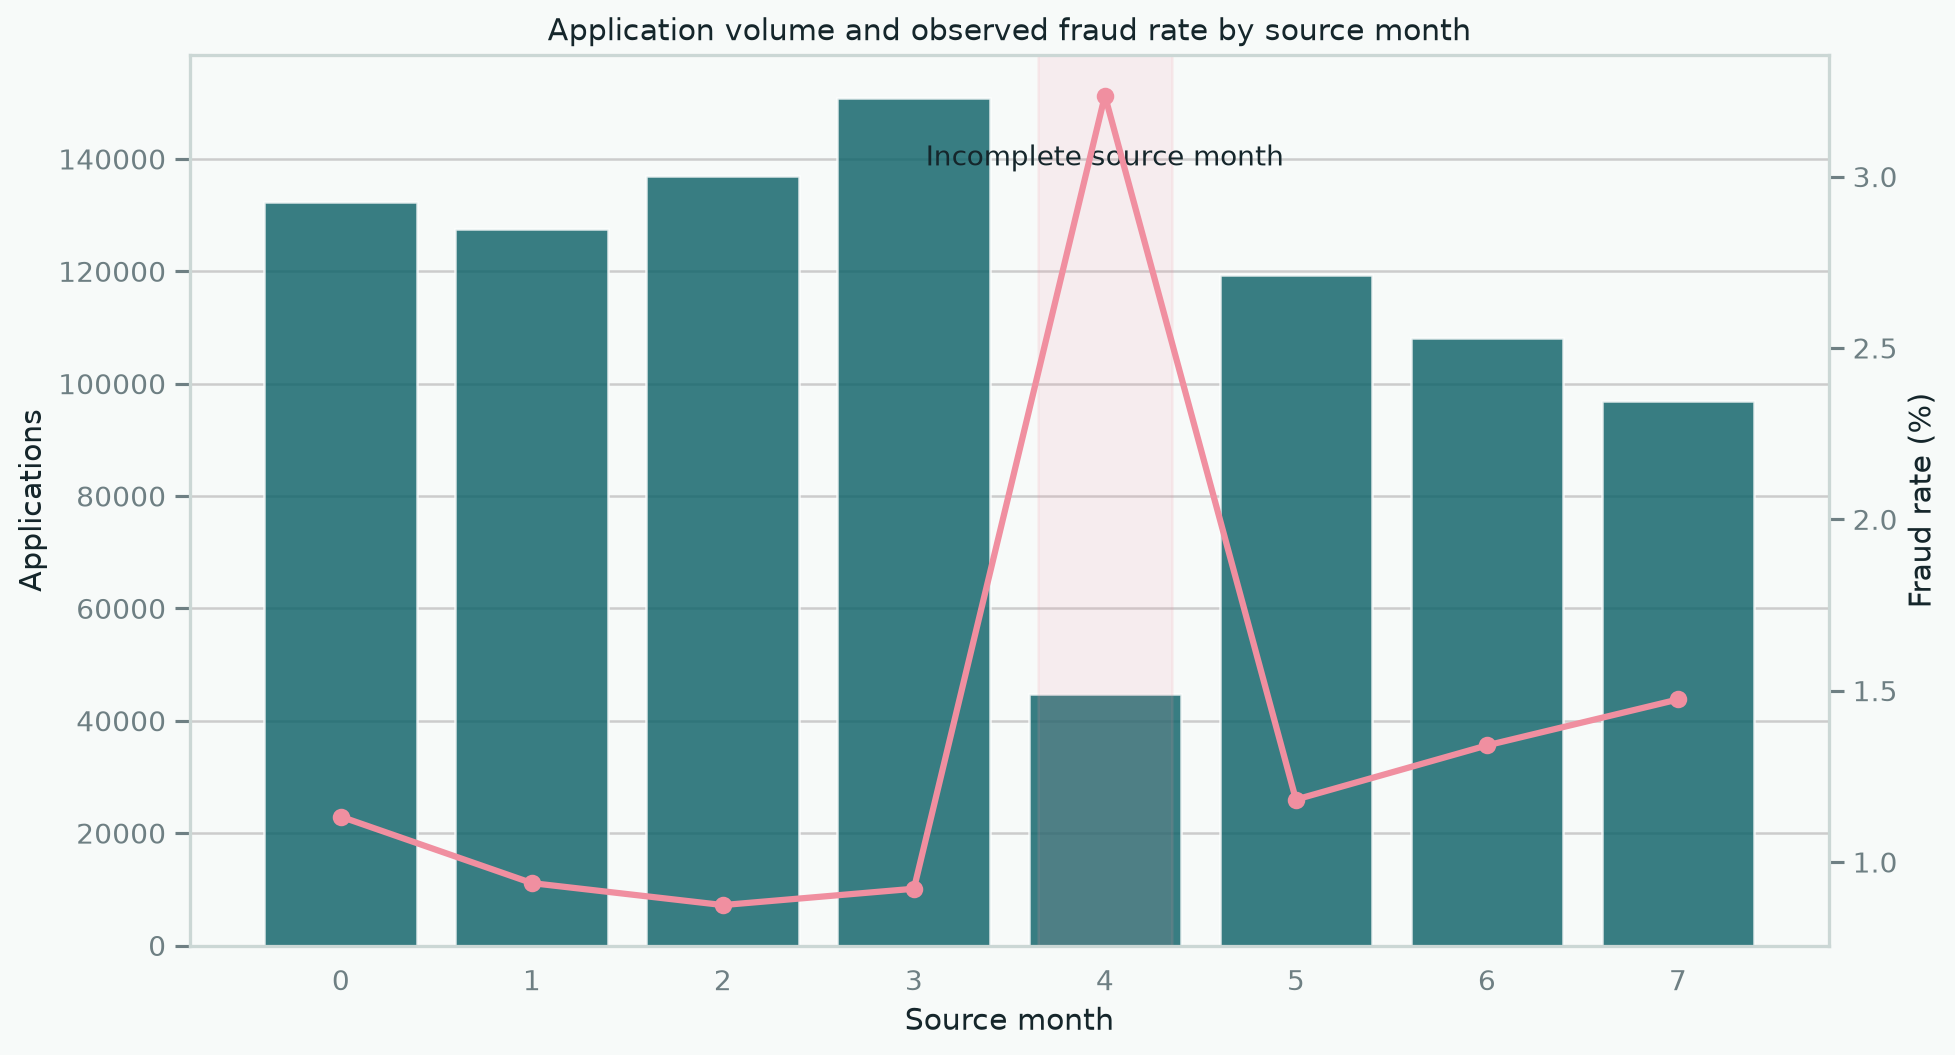
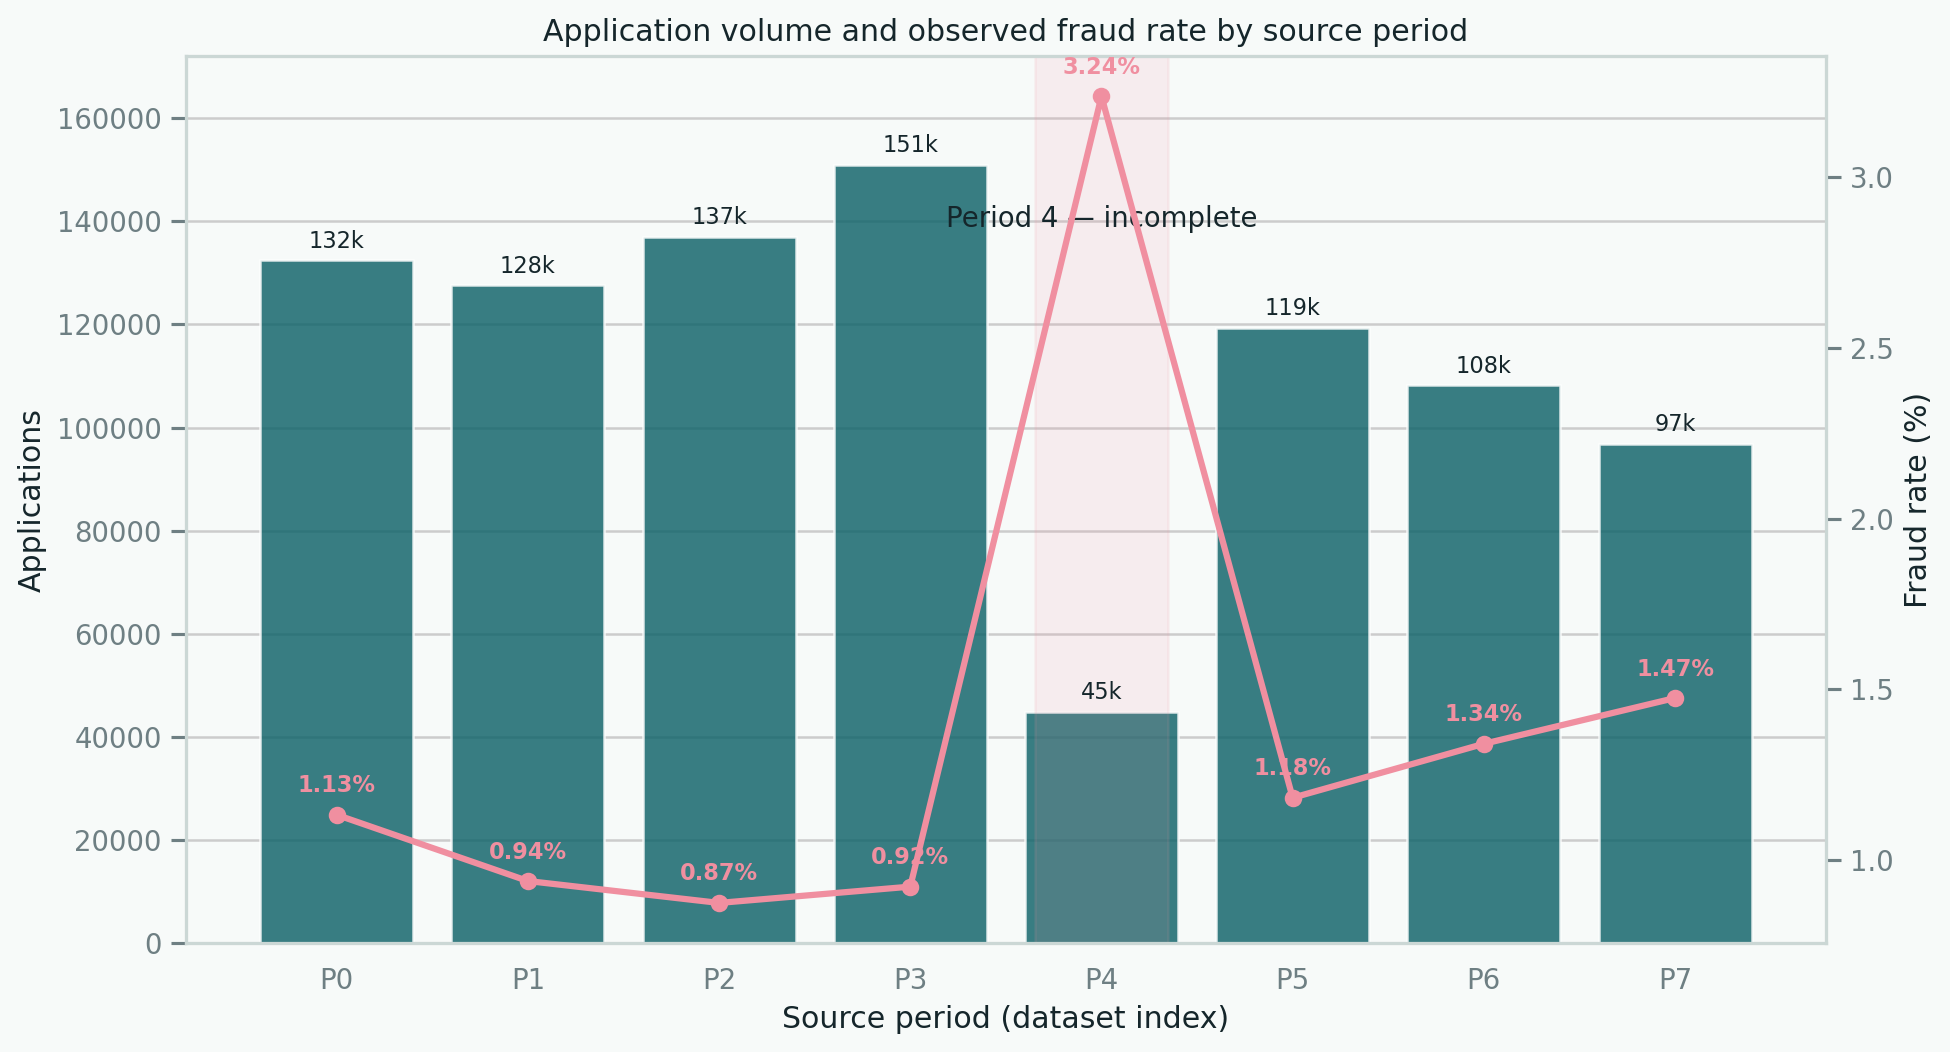
Clarify source-period chart labels
Show application volumes, fraud-rate values and explicit P0–P7 period identifiers in both the interactive dashboard and the README figure.

diff --git a/scripts/generate_figures.py b/scripts/generate_figures.py
@@ -38,7 +38,7 @@ def monthly_figure(audit: dict, output: Path) -> None:
     monthly = pd.DataFrame(audit["base_by_month"])
     fig, left = plt.subplots(figsize=(11, 6))
     right = left.twinx()
-    left.bar(monthly["month"], monthly["applications"], color=TEAL, alpha=0.82, label="Applications")
+    bars = left.bar(monthly["month"], monthly["applications"], color=TEAL, alpha=0.82, label="Applications")
     right.plot(
         monthly["month"],
         monthly["fraud_rate"] * 100,
@@ -48,11 +48,38 @@ def monthly_figure(audit: dict, output: Path) -> None:
         label="Fraud rate",
     )
     left.axvspan(3.65, 4.35, color=CORAL, alpha=0.12)
-    left.text(4, monthly["applications"].max() * 0.92, "Incomplete source month", ha="center", color=DARK)
-    left.set(title="Application volume and observed fraud rate by source month", xlabel="Source month", ylabel="Applications")
+    left.text(
+        4.28,
+        monthly["applications"].max() * 0.72,
+        "P4 — incomplete",
+        ha="center",
+        va="center",
+        rotation=90,
+        color=DARK,
+        fontsize=9,
+    )
+    left.bar_label(bars, labels=[f"{value / 1000:.0f}k" for value in monthly["applications"]], padding=3, fontsize=9)
+    for month, rate in zip(monthly["month"], monthly["fraud_rate"] * 100):
+        right.annotate(
+            f"{rate:.2f}%",
+            (month, rate),
+            xytext=(0, 9),
+            textcoords="offset points",
+            ha="center",
+            color=CORAL,
+            fontsize=9,
+            fontweight="bold",
+        )
+    left.set(
+        title="Application volume and observed fraud rate by source period",
+        xlabel="Source period (dataset index)",
+        ylabel="Applications",
+    )
+    left.set_xticks(monthly["month"], [f"P{month}" for month in monthly["month"]])
     right.set_ylabel("Fraud rate (%)")
     left.grid(axis="x", visible=False)
     right.grid(visible=False)
+    left.margins(y=0.14)
     fig.tight_layout()
     fig.savefig(output, dpi=180, bbox_inches="tight")
     plt.close(fig)

diff --git a/dashboard/app.py b/dashboard/app.py
@@ -488,14 +488,23 @@ with quality_tab:
         name="Applications",
         marker_color=TEAL,
         opacity=0.82,
+        text=[f"{value:,}" for value in monthly["applications"]],
+        textposition="outside",
+        textfont={"color": DARK, "size": 11},
+        cliponaxis=False,
+        hovertemplate="Source period %{x}<br>Applications: %{y:,}<extra></extra>",
     )
     figure.add_scatter(
         x=monthly["month"],
         y=monthly["fraud_rate"] * 100,
         name="Fraud rate",
-        mode="lines+markers",
+        mode="lines+markers+text",
         line={"color": CORAL, "width": 3},
         marker={"size": 8},
+        text=[f"{rate * 100:.2f}%" for rate in monthly["fraud_rate"]],
+        textposition="top center",
+        textfont={"color": CORAL, "size": 11},
+        hovertemplate="Source period %{x}<br>Fraud rate: %{y:.2f}%<extra></extra>",
         yaxis="y2",
     )
     figure.add_vrect(
@@ -504,14 +513,19 @@ with quality_tab:
         fillcolor=CORAL,
         opacity=0.12,
         line_width=0,
-        annotation_text="Incomplete source month",
-        annotation_position="top left",
+        annotation_text="P4 — incomplete",
+        annotation_position="top right",
     )
     figure.update_layout(
-        title="Application volume and observed fraud rate",
-        xaxis_title="Source month",
-        yaxis={"title": "Applications"},
-        yaxis2={"title": "Fraud rate (%)", "overlaying": "y", "side": "right", "showgrid": False},
+        title="Application volume and observed fraud rate by source period",
+        xaxis={
+            "title": "Source period (dataset index)",
+            "tickmode": "array",
+            "tickvals": monthly["month"].tolist(),
+            "ticktext": [f"P{month}" for month in monthly["month"]],
+        },
+        yaxis={"title": "Applications", "range": [0, monthly["applications"].max() * 1.18]},
+        yaxis2={"title": "Fraud rate (%)", "overlaying": "y", "side": "right", "showgrid": False, "range": [0, monthly["fraud_rate"].max() * 100 * 1.2]},
     )
     style_figure(figure, height=520)
     st.plotly_chart(figure, width="stretch")